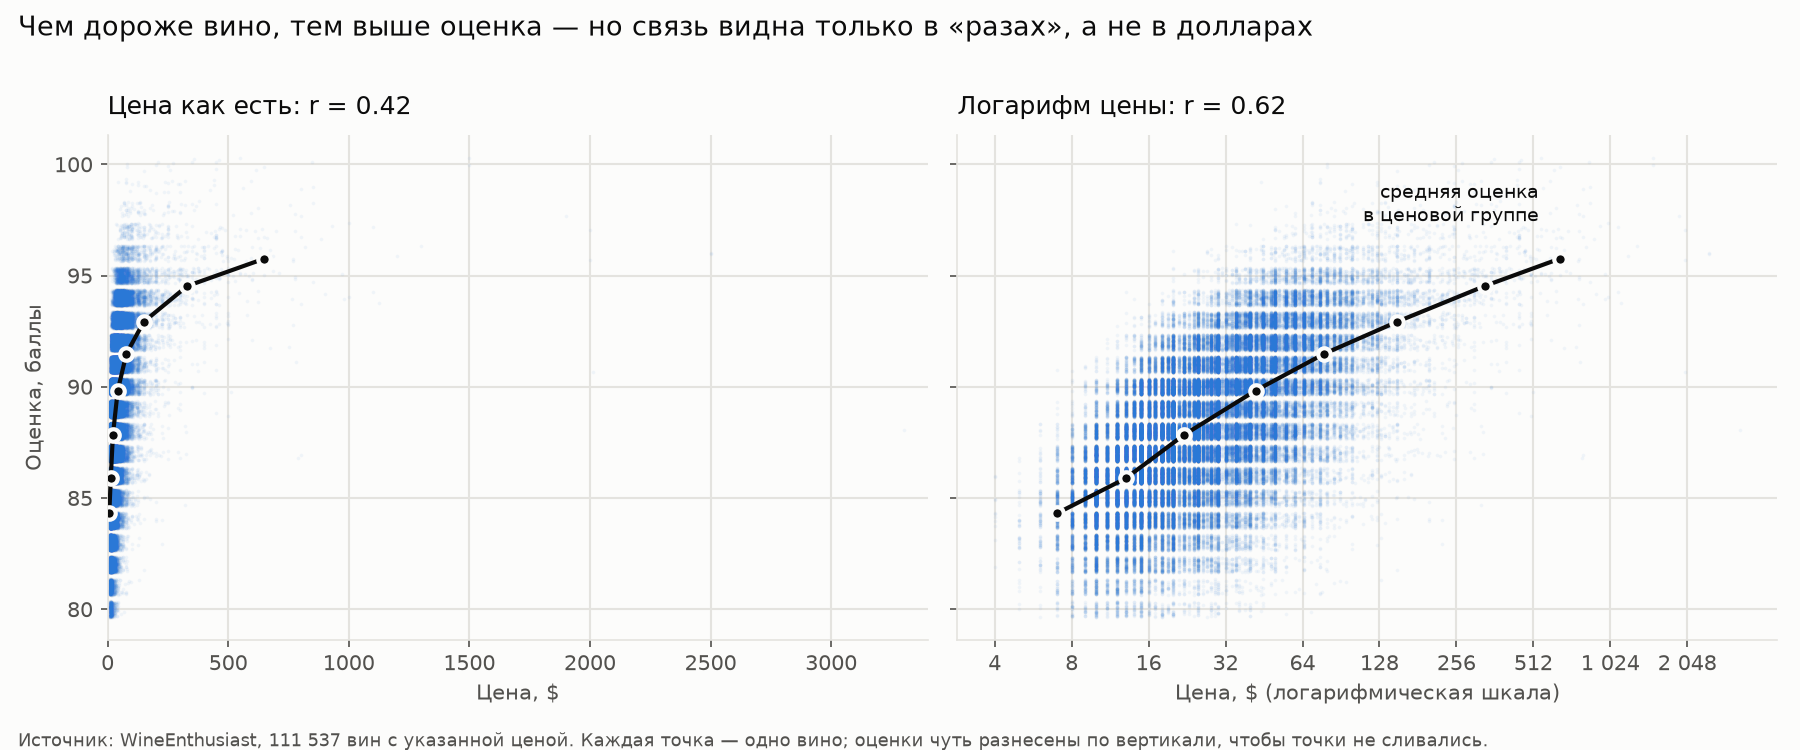
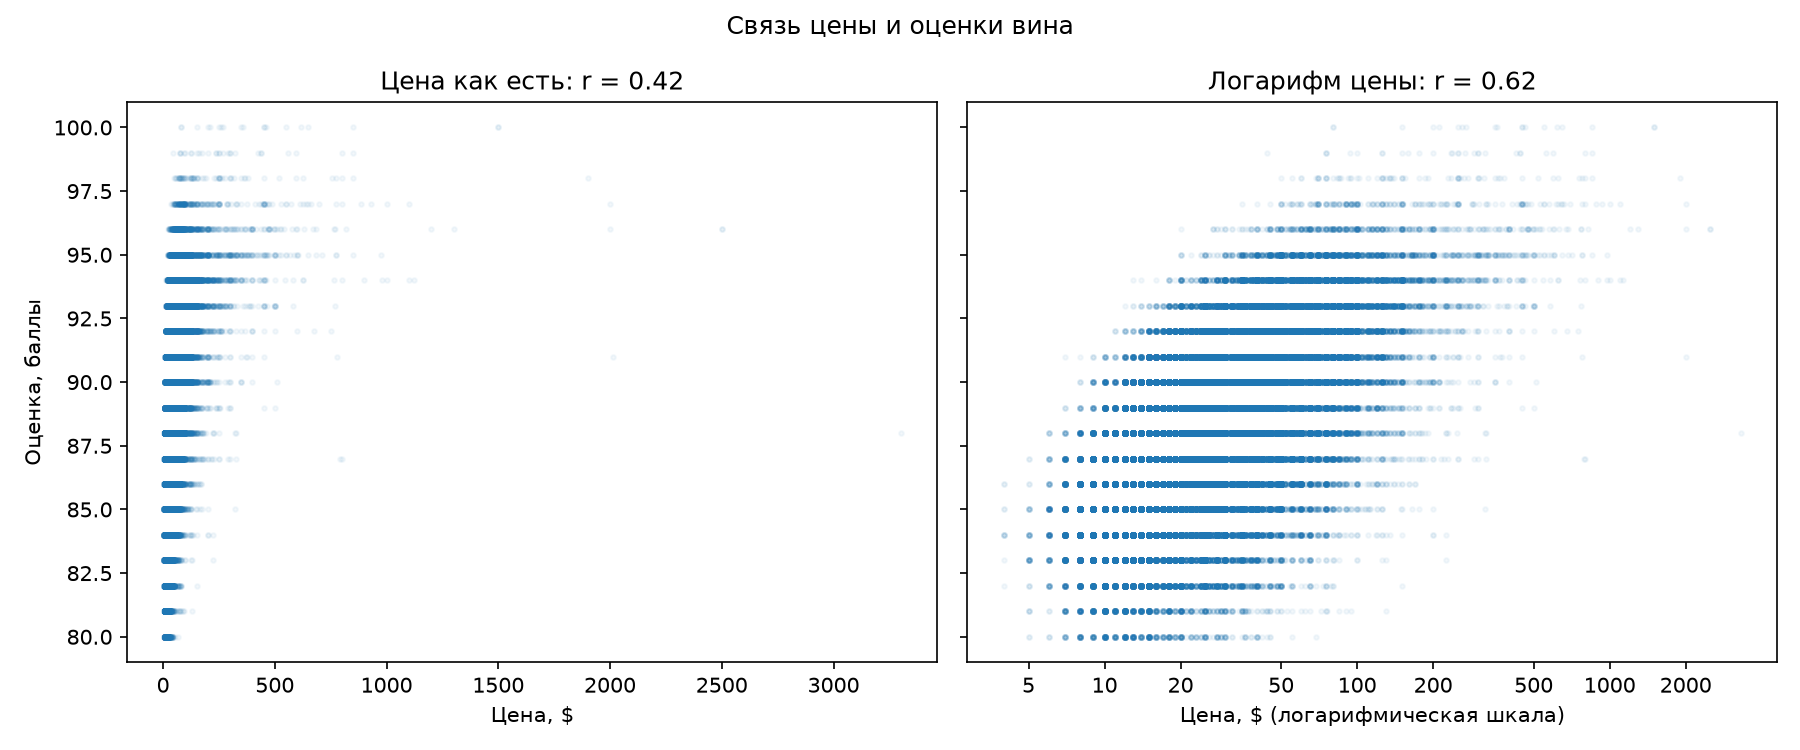
Упрощён анализ цены и оценки: только Пирсон на цене и на логарифме цены
Убраны Спирмен, группировка по ценовым корзинам, линия средних и jitter на графике.

diff --git a/src/wine_analytics/viz/price_vs_points.py b/src/wine_analytics/viz/price_vs_points.py
@@ -5,7 +5,6 @@ import matplotlib.pyplot as plt
 import numpy as np
 import pandas as pd
 from dotenv import load_dotenv
-from matplotlib.ticker import FuncFormatter
 from sqlalchemy import create_engine
 
 PROJECT_ROOT = Path(__file__).resolve().parents[3]
@@ -13,84 +12,44 @@ FIGURE_PATH = PROJECT_ROOT / "reports" / "figures" / "price_vs_points.png"
 
 # Подключаемся к базе так же, как в load_to_postgres.py
 load_dotenv(PROJECT_ROOT / ".env")
-connection_string = (
-    f"postgresql+psycopg://{os.getenv('DB_USER')}:{os.getenv('DB_PASSWORD')}"
-    f"@{os.getenv('DB_HOST')}:{os.getenv('DB_PORT')}/{os.getenv('DB_NAME')}"
-)
+db_user = os.getenv("DB_USER")
+db_password = os.getenv("DB_PASSWORD")
+db_host = os.getenv("DB_HOST")
+db_port = os.getenv("DB_PORT")
+db_name = os.getenv("DB_NAME")
+
+connection_string = f"postgresql+psycopg://{db_user}:{db_password}@{db_host}:{db_port}/{db_name}"
 engine = create_engine(connection_string)
 
 df = pd.read_sql("SELECT price, points FROM wines WHERE price > 0", engine)
-print(f"Вин с ценой: {len(df)}")
 
-# Корреляции для подписей на графике
+# Корреляция Пирсона: на цене как есть и на логарифме цены
 r_raw = df["price"].corr(df["points"])
 r_log = np.log(df["price"]).corr(df["points"])
+print(f"Пирсон, цена как есть: {r_raw:.2f}")
+print(f"Пирсон, логарифм цены: {r_log:.2f}")
 
-# Средняя оценка по группам, где каждая следующая дороже в 2 раза (как в SQL-запросе 3).
-# Группы, где меньше 20 вин, не рисуем: среднее по ним ненадёжно
-df["bucket"] = 2 ** np.floor(np.log2(df["price"]))
-groups = df.groupby("bucket").agg(price=("price", "median"), points=("points", "mean"), n=("points", "size"))
-groups = groups[groups["n"] >= 20]
+# Две панели с одними и теми же данными, отличается только шкала цены
+fig, (ax_raw, ax_log) = plt.subplots(1, 2, figsize=(12, 5), sharey=True)
 
-# Оценки целые (80, 81, ...), поэтому точки лежат полосками и перекрывают друг друга.
-# Небольшой случайный сдвиг по вертикали ("jitter") разносит их, чтобы была видна плотность
-rng = np.random.default_rng(42)
-jittered_points = df["points"] + rng.uniform(-0.35, 0.35, len(df))
+# alpha — прозрачность: где вин много, точки накладываются и цвет становится темнее
+ax_raw.scatter(df["price"], df["points"], s=5, alpha=0.05)
+ax_raw.set_title(f"Цена как есть: r = {r_raw:.2f}")
+ax_raw.set_xlabel("Цена, $")
+ax_raw.set_ylabel("Оценка, баллы")
 
-# Цвета: точки — синий, линия средних — основной цвет текста, сетка — светло-серая
-DOT_COLOR = "#2a78d6"
-INK = "#0b0b0b"
-INK_SECONDARY = "#52514e"
-GRID = "#e4e3df"
-SURFACE = "#fcfcfb"
+# На логарифмической шкале одинаковое расстояние = одинаковое «во сколько раз дороже»
+ax_log.scatter(df["price"], df["points"], s=5, alpha=0.05)
+ax_log.set_xscale("log")
+ticks = [5, 10, 20, 50, 100, 200, 500, 1000, 2000]
+ax_log.set_xticks(ticks, labels=[str(t) for t in ticks])
+ax_log.minorticks_off()
+ax_log.set_title(f"Логарифм цены: r = {r_log:.2f}")
+ax_log.set_xlabel("Цена, $ (логарифмическая шкала)")
 
-plt.rcParams.update({
-    "font.family": "DejaVu Sans",
-    "font.size": 10,
-    "axes.edgecolor": GRID,
-    "axes.labelcolor": INK_SECONDARY,
-    "xtick.color": INK_SECONDARY,
-    "ytick.color": INK_SECONDARY,
-})
-
-fig, axes = plt.subplots(1, 2, figsize=(12, 5), sharey=True, facecolor=SURFACE)
-
-panels = [
-    (axes[0], "linear", f"Цена как есть: r = {r_raw:.2f}"),
-    (axes[1], "log", f"Логарифм цены: r = {r_log:.2f}"),
-]
-for ax, xscale, title in panels:
-    ax.set_facecolor(SURFACE)
-    ax.scatter(df["price"], jittered_points, s=3, color=DOT_COLOR, alpha=0.06, linewidths=0, rasterized=True)
-    ax.plot(groups["price"], groups["points"], color=INK, linewidth=2, marker="o", markersize=6,
-            markeredgecolor=SURFACE, markeredgewidth=2, zorder=3)
-
-    ax.set_xscale(xscale)
-    ax.set_title(title, loc="left", color=INK, fontsize=12, pad=10)
-    ax.set_xlabel("Цена, $" + (" (логарифмическая шкала)" if xscale == "log" else ""))
-    ax.grid(True, color=GRID, linewidth=1)
-    ax.set_axisbelow(True)
-    for side in ("top", "right"):
-        ax.spines[side].set_visible(False)
-
-axes[0].set_ylabel("Оценка, баллы")
-axes[0].set_xlim(0, 3400)
-axes[1].xaxis.set_major_formatter(FuncFormatter(lambda x, _: f"{x:,.0f}".replace(",", " ")))
-axes[1].set_xticks([4, 8, 16, 32, 64, 128, 256, 512, 1024, 2048])
-axes[1].minorticks_off()
-
-# Подпись к линии средних, без отдельной легенды
-last = groups.iloc[-1]
-axes[1].annotate("средняя оценка\nв ценовой группе", xy=(last["price"], last["points"]),
-                 xytext=(-10, 18), textcoords="offset points", ha="right", color=INK, fontsize=9)
-
-fig.suptitle("Чем дороже вино, тем выше оценка — но связь видна только в «разах», а не в долларах",
-             x=0.01, ha="left", color=INK, fontsize=13)
-n_wines = f"{len(df):,}".replace(",", " ")
-fig.text(0.01, 0.005, f"Источник: WineEnthusiast, {n_wines} вин с указанной ценой. Каждая точка — одно вино; оценки чуть разнесены по вертикали, чтобы точки не сливались.",
-         color=INK_SECONDARY, fontsize=8.5)
-fig.tight_layout(rect=(0, 0.03, 1, 0.97))
+fig.suptitle("Связь цены и оценки вина")
+fig.tight_layout()
 
 FIGURE_PATH.parent.mkdir(parents=True, exist_ok=True)
-fig.savefig(FIGURE_PATH, dpi=150, facecolor=SURFACE)
+fig.savefig(FIGURE_PATH, dpi=150)
 print(f"Сохранено в: {FIGURE_PATH}")
